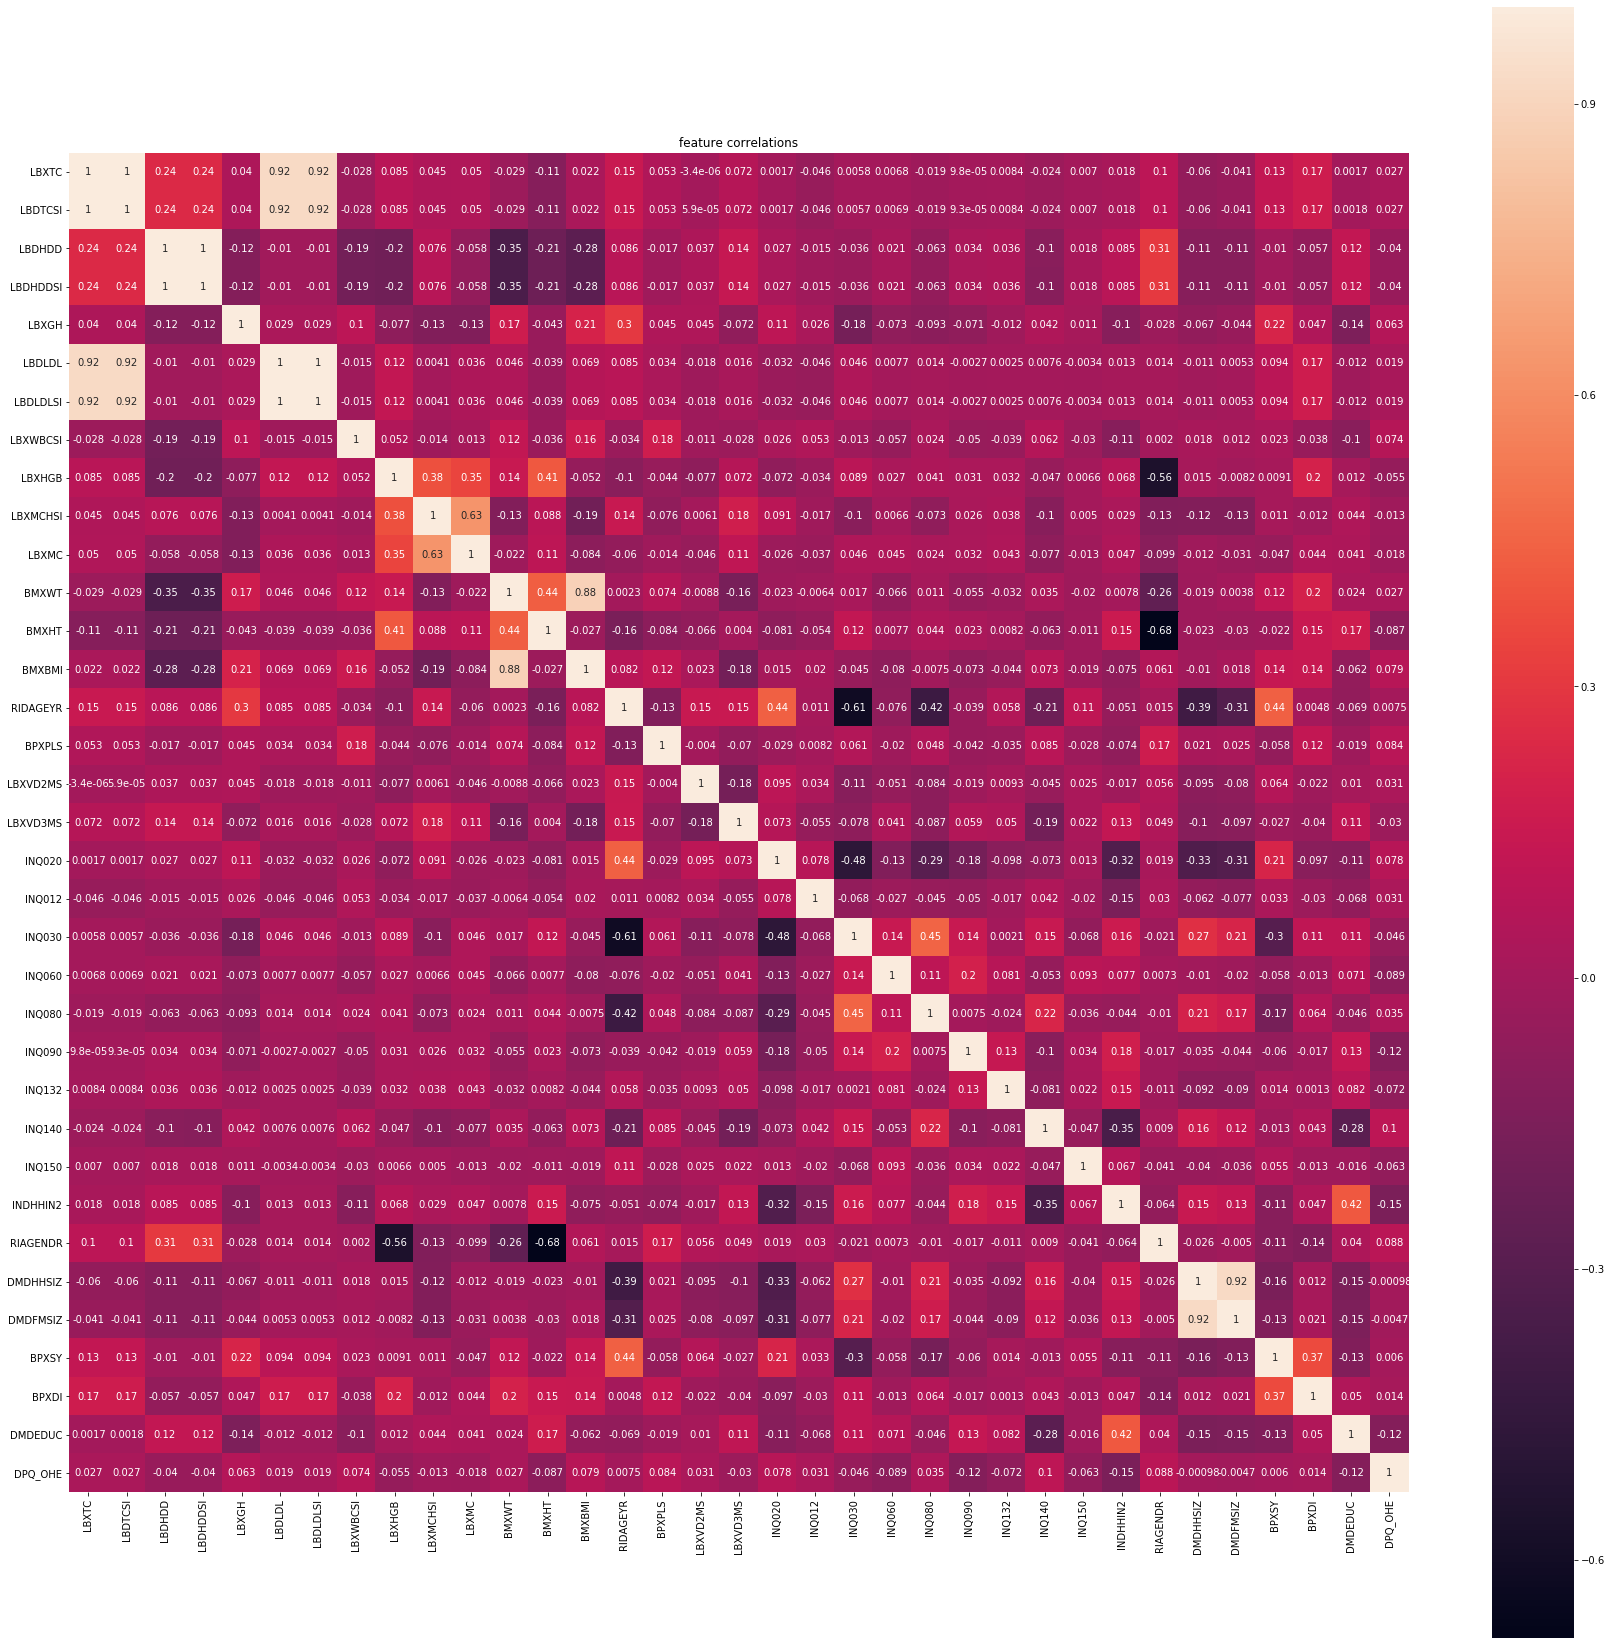
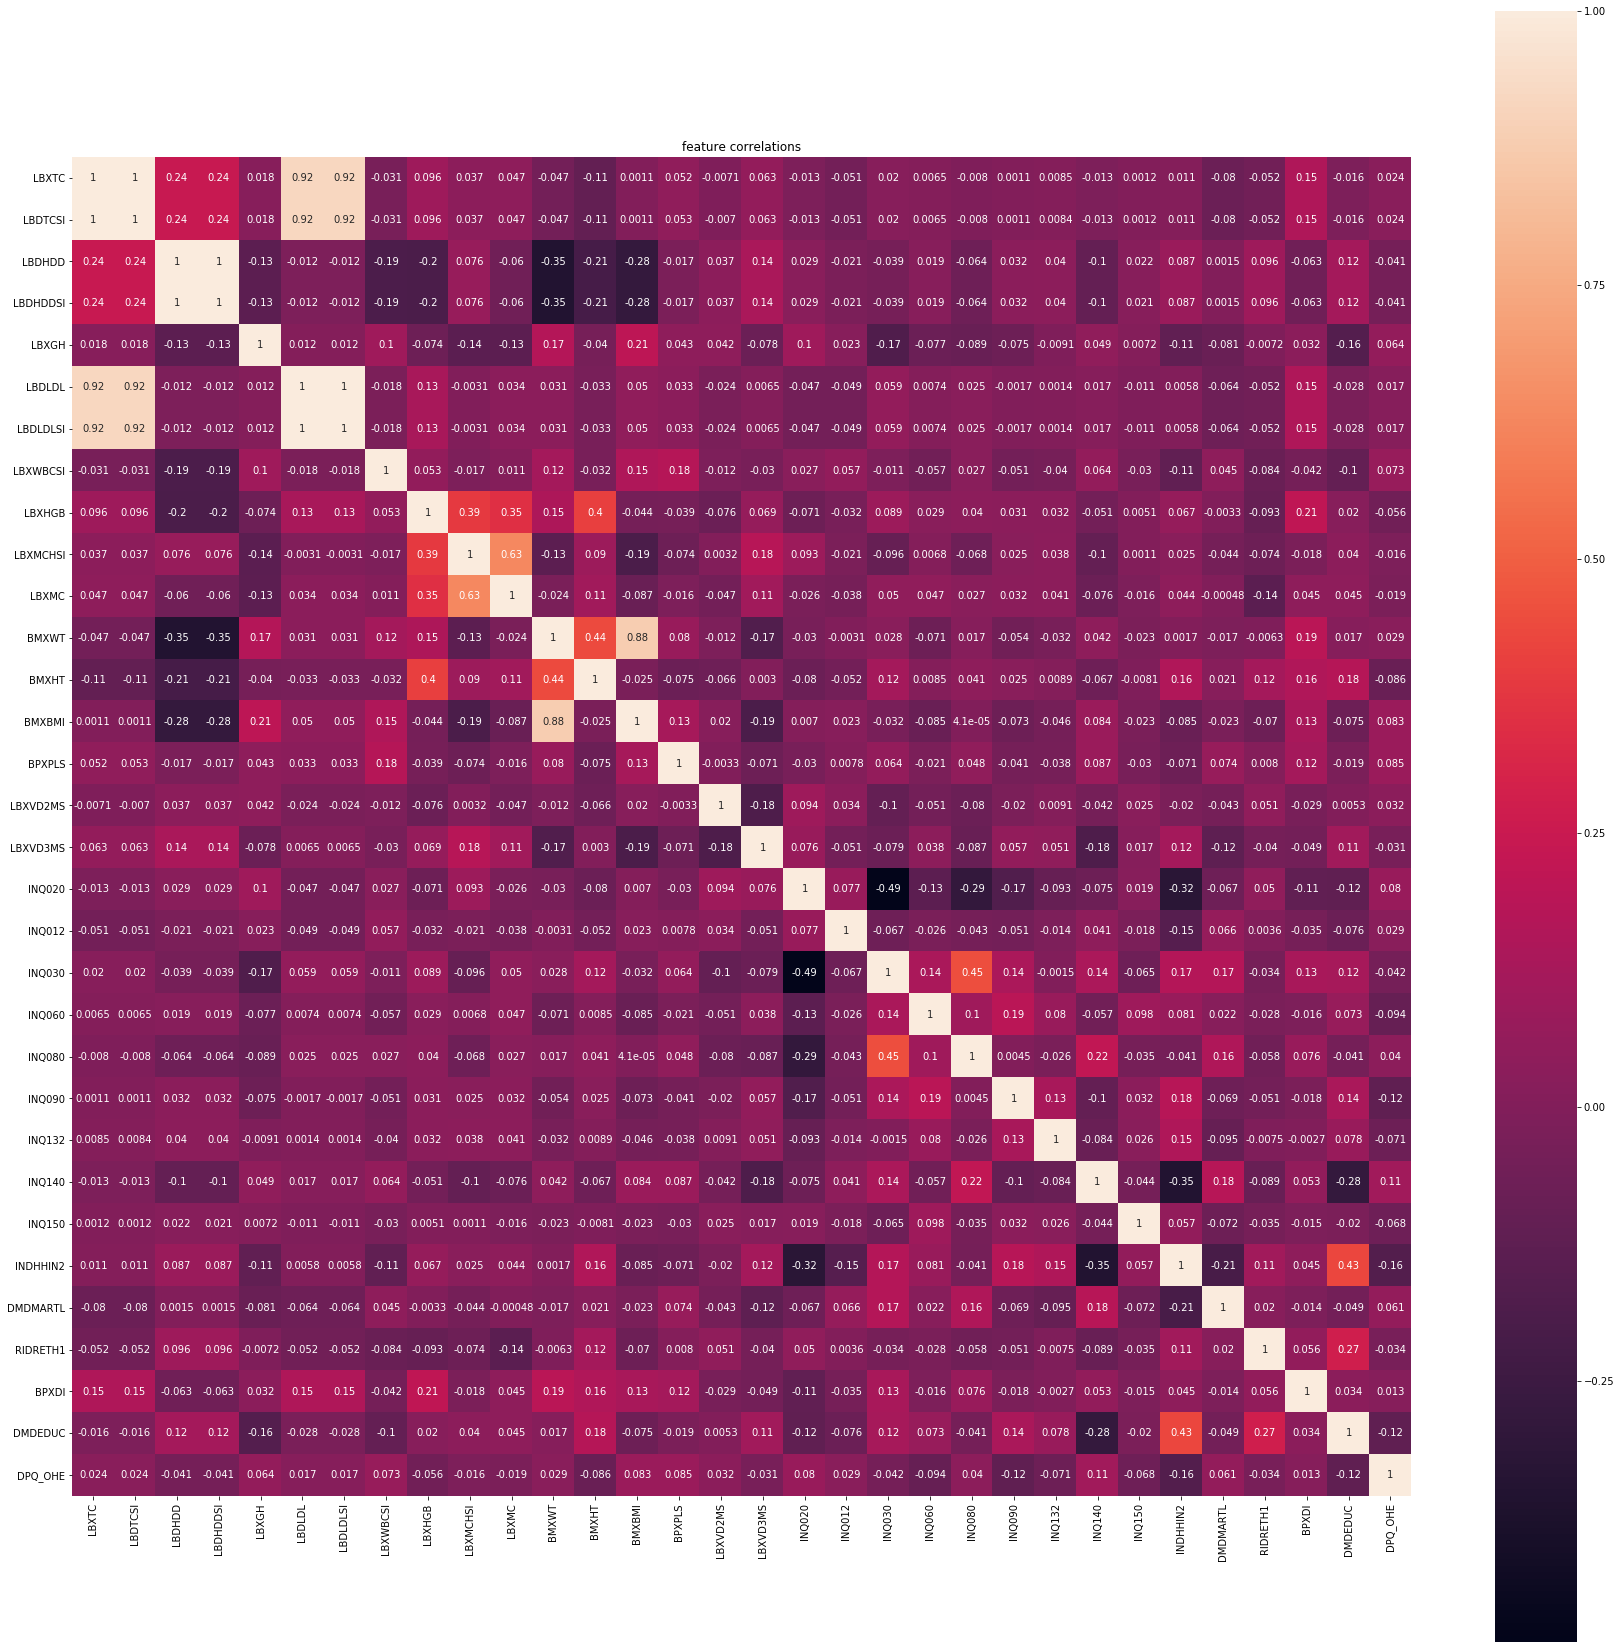
Update Deperession-Classification

diff --git a/Depression-Classification/data_prep.py b/Depression-Classification/data_prep.py
@@ -37,6 +37,7 @@ from sklearn.ensemble import VotingClassifier
 
 import tensorflow as tf
 from xgboost import XGBClassifier
+import lightgbm as lgb
 
 scaler = MinMaxScaler()
 
@@ -46,14 +47,14 @@ INQ = ['INQ020', 'INQ012', 'INQ030', 'INQ060', 'INQ080', 'INQ090', 'INQ132',
 DPQ = ['DPQ010', 'DPQ020', 'DPQ030', 'DPQ040', 'DPQ050', 'DPQ060', 'DPQ070',
        'DPQ080', 'DPQ090']
 DPQ_RA = ['DPQ_range']
-DEMO = ['DMDEDUC', 'DMDMARTL', 'RIDRETH1']
+DEMO = ['DMDEDUC', 'RIAGENDR', 'DMDMARTL', 'RIDRETH1']
 target = ['DPQ_OHE']
 column_list = DEMO+INQ
 
 
 NUMERIC = ['LBXTC', 'LBDTCSI', 'LBDHDD', 'LBDHDDSI', 'LBXGH', 'LBDLDL', 'LBDLDLSI',
            'LBXWBCSI', 'LBXHGB', 'LBXMCHSI', 'LBXMC', 'BMXWT', 'BMXHT', 'BMXBMI',
-           'BPXPLS', 'BPXDI', 'LBXVD2MS', 'LBXVD3MS']
+           'BPXPLS', 'BPXDI', 'LBXVD2MS', 'LBXVD3MS', 'BPXSY', 'RIDAGEYR']
 
 REMOVED = ['BPXSY', 'RIDAGEYR']
 
@@ -92,7 +93,7 @@ def resampling(df_data, ratio):
     return pd.DataFrame(df_sampling_train)
     '''
 
-def DNN(df_data):    
+def CNN(df_data):    
     Y = df_data['DPQ_OHE']
     X = df_data.drop(['DPQ_OHE'], axis=1)
     
@@ -130,8 +131,8 @@ def DNN(df_data):
     print(Y_train.value_counts())
     print(Y_test.value_counts())
     
-    Y_train = to_categorical(Y_train)
-    Y_test = to_categorical(Y_test)  
+    #Y_train = to_categorical(Y_train)
+    #Y_test = to_categorical(Y_test)  
     
     adam=optimizers.Adam(lr=0.001, decay=0.000001)
     kernel_size=5
@@ -139,11 +140,13 @@ def DNN(df_data):
     model = Sequential()
     model.add(Conv1D(64, input_shape=X_train.shape[1:3], kernel_size=kernel_size,
                      activation='relu', kernel_initializer='he_uniform' ,name='Conv1'))
+    model.add(Conv1D(32, kernel_size=kernel_size,
+                     activation='relu', kernel_initializer='he_uniform', name='Conv2'))
     model.add(BatchNormalization())
     model.add(Flatten(name='Flatten'))
     model.add(Dropout(0.8))
     model.add(Dense(128, activation='relu', kernel_initializer='he_uniform', name='FCN1'))
-    model.add(Dense(Y_train.shape[1], activation='softmax'))
+    model.add(Dense(1, activation='sigmoid'))
     model.compile(optimizer=adam, loss='binary_crossentropy', metrics=['accuracy', tf.keras.metrics.AUC()])
     model.summary()
 
@@ -170,8 +173,13 @@ def DNN(df_data):
     plt.show()
     
     Y_pred = model.predict(X_test)
-    Y_pred = np.argmax(Y_pred, axis=1)
-    Y_test = np.argmax(Y_test, axis=1)
+    
+    #print(tf.keras.metrics.AUC(Y_test, Y_pred))
+    print(roc_auc_score(Y_test, Y_pred))
+    
+    #Y_pred = np.argmax(Y_pred, axis=1)
+    #Y_test = np.argmax(Y_test, axis=1)
+    Y_pred = np.where(Y_pred>=0.5, 1, 0)
     
     print(confusion_matrix(Y_test, Y_pred))
     print(classification_report(Y_test, Y_pred, labels=[0, 1]))
@@ -209,17 +217,17 @@ def CNN2D(df_data):
     X_train = np.hstack([x_train, x_train_oh])
     X_test = np.hstack([x_test, x_test_oh])
     
-    X_train = X_train.reshape(X_train.shape[0], 5, 13, 1)
-    X_test = X_test.reshape(X_test.shape[0], 5, 13, 1)
+    X_train = X_train.reshape(X_train.shape[0], 23, 3, 1)
+    X_test = X_test.reshape(X_test.shape[0], 23, 3, 1)
     print(X_train.shape)
     
     print(Y_train.value_counts())
     print(Y_test.value_counts())
     
-    Y_train = to_categorical(Y_train)
-    Y_test = to_categorical(Y_test)  
+    #Y_train = to_categorical(Y_train)
+    #Y_test = to_categorical(Y_test)  
     
-    adam=optimizers.Adam(lr=0.001, decay=0.00005)
+    adam=optimizers.Adam(lr=0.001)
     kernel_size = (3, 3)
     strides = (1, 1)
     
@@ -227,18 +235,16 @@ def CNN2D(df_data):
     model.add(Conv2D(32, input_shape=X_train.shape[1:4],
                      kernel_size=kernel_size, strides=strides,
                      activation='relu', kernel_initializer='he_uniform', name='Conv1')) 
-    model.add(Conv2D(16,
-                     kernel_size=kernel_size, strides=strides,
-                     activation='relu', kernel_initializer='he_uniform', name='Conv2')) 
     model.add(Flatten(name='Flatten'))
     model.add(Dropout(0.8))
-    model.add(Dense(Y_train.shape[1], activation='softmax'))
+    model.add(Dense(128, activation='relu', kernel_initializer='he_uniform', name='FCN1'))
+    model.add(Dense(1, activation='sigmoid'))
     model.compile(optimizer=adam, loss='binary_crossentropy', metrics=['accuracy', tf.keras.metrics.AUC()])
     model.summary()
 
     history = model.fit(X_train, Y_train, 
                         validation_data=(X_test, Y_test),
-                        batch_size=100, epochs=25, verbose=1)
+                        batch_size=100, epochs=35, verbose=1)
     loss = history.history['loss']
     val_loss = history.history['val_loss']
     acc = history.history['accuracy']
@@ -258,11 +264,14 @@ def CNN2D(df_data):
     plt.legend()
     plt.show()
 
-    score = model.evaluate(X_test, Y_test, batch_size=1000)
-    
     Y_pred = model.predict(X_test)
-    Y_pred = np.argmax(Y_pred, axis=1)
-    Y_test = np.argmax(Y_test, axis=1)
+    
+    #print(tf.keras.metrics.AUC(Y_test, Y_pred))
+    print(roc_auc_score(Y_test, Y_pred))
+    
+    #Y_pred = np.argmax(Y_pred, axis=1)
+    #Y_test = np.argmax(Y_test, axis=1)
+    Y_pred = np.where(Y_pred>=0.5, 1, 0)
     
     print(confusion_matrix(Y_test, Y_pred))
     print(classification_report(Y_test, Y_pred, labels=[0, 1]))
@@ -380,19 +389,19 @@ def cnn_model3():
     return model
 
 def dnn_model1():    
-    adam=optimizers.Adam(lr=0.01, decay=0.000001)
+    adam=optimizers.Adam(lr=0.001)
     model = Sequential()
     model.add(Dense(128, input_dim=65, activation='relu', kernel_initializer='he_uniform'))
     model.add(Dense(128, activation='relu', kernel_initializer='he_uniform'))
     model.add(Dropout(0.8))
     model.add(Dense(128, activation='relu', kernel_initializer='he_uniform'))
-    model.add(Dense(1, activation='sigmoid'))
+    model.add(Dense(1, activation='softmax'))
     model.compile(optimizer=adam, loss='binary_crossentropy', metrics=['accuracy'])
     
     return model
     
 def dnn_model2():
-    adam=optimizers.Adam(lr=0.01, decay=0.000001)
+    adam=optimizers.Adam(lr=0.001)
     model = Sequential()
     model.add(Dense(128, input_dim=65, activation='relu', kernel_initializer='he_uniform'))
     model.add(Dense(128, activation='relu', kernel_initializer='he_uniform'))
@@ -400,13 +409,13 @@ def dnn_model2():
     model.add(Dense(128, activation='relu', kernel_initializer='he_uniform'))
     model.add(Dropout(0.8))
     model.add(Dense(128, activation='relu', kernel_initializer='he_uniform'))
-    model.add(Dense(1, activation='sigmoid'))
+    model.add(Dense(1, activation='softmax'))
     model.compile(optimizer=adam, loss='binary_crossentropy', metrics=['accuracy'])
     
     return model
     
 def dnn_model3():
-    adam=optimizers.Adam(lr=0.01, decay=0.000001)
+    adam=optimizers.Adam(lr=0.001)
     model = Sequential()
     model.add(Dense(128, input_dim=65, activation='relu', kernel_initializer='he_uniform'))
     model.add(Dense(128, activation='relu', kernel_initializer='he_uniform'))
@@ -416,7 +425,7 @@ def dnn_model3():
     model.add(Dense(128, activation='relu', kernel_initializer='he_uniform'))
     model.add(Dropout(0.8))
     model.add(Dense(128, activation='relu', kernel_initializer='he_uniform'))
-    model.add(Dense(1, activation='sigmoid'))
+    model.add(Dense(1, activation='softmax'))
     model.compile(optimizer=adam, loss='binary_crossentropy', metrics=['accuracy'])
     
     return model
@@ -463,14 +472,106 @@ def Ensemble(df_data):
     #Y_test = to_categorical(Y_test)  
     
     model1 = KerasClassifier(build_fn = cnn_model1, epochs = 50)
-    model2 = KerasClassifier(build_fn = cnn_model2, epochs = 60)
-    model3 = KerasClassifier(build_fn = cnn_model3, epochs = 70)
+    model2 = KerasClassifier(build_fn = cnn_model2, epochs = 50)
+    model3 = KerasClassifier(build_fn = cnn_model3, epochs = 50)
+    model4 = KerasClassifier(build_fn = dnn_model1, epochs = 50)
+    model5 = KerasClassifier(build_fn = dnn_model2, epochs = 50)
     
-    ensemble_clf = VotingClassifier(estimators = [('model1', model1), ('model2', model2), ('model3', model3)], voting = 'soft')
+    ensemble_clf = VotingClassifier(estimators = [('model1', model1), ('model2', model2), ('model3', model3), ('model4', model4), ('model5', model5)], voting = 'soft')
     ensemble_clf.fit(X_train, Y_train)
     
     Y_pred = ensemble_clf.predict(X_test)
     
+    print(confusion_matrix(Y_test, Y_pred))
+    print(classification_report(Y_test, Y_pred, labels=[0, 1]))
+    print(roc_auc_score(Y_test, Y_pred))
+    
+def LGBM(df_data):    
+    Y = df_data['DPQ_OHE']
+    X = df_data.drop(['DPQ_OHE'], axis=1)
+    
+    X_train, X_test, Y_train, Y_test = train_test_split(X,Y,test_size=0.2,
+                                                        random_state = 42,
+                                                        stratify = Y)
+    
+    X_columns = X.columns
+    Y_columns = ['DPQ_OHE']
+    
+    X_train = pd.DataFrame(X_train, columns=X_columns)
+    Y_train = pd.DataFrame(Y_train, columns=Y_columns)
+    print(X_train.describe())
+    X_train = pd.concat([X_train, Y_train], axis=1)
+    print(X_train.shape)
+    
+    X_train = resampling(X_train, 1)
+    print(X_train.shape)
+    Y_train = X_train['DPQ_OHE']
+    X_train = X_train.drop('DPQ_OHE', axis=1)
+    
+    x_train = scaler.fit_transform(X_train[NUMERIC])
+    x_test = scaler.transform(X_test[NUMERIC])
+    
+    x_train_oh = np.array(X_train.drop(NUMERIC, axis=1))
+    x_test_oh = np.array(X_test.drop(NUMERIC, axis=1))  
+    
+    X_train = np.hstack([x_train, x_train_oh])
+    X_test = np.hstack([x_test, x_test_oh])
+    print(X_train.shape)
+    
+    print(Y_train.value_counts())
+    print(Y_test.value_counts())
+    
+    model = lgb.LGBMClassifier(learning_rate=0.001, n_estimators=10000, boosting_type='gbdt',
+                               metric='binary', feature_faction = 1, scale_pos_weight=1)
+    
+    param_grid = {'n_estimators':[100, 150, 200, 250, 300], 'learning_rate':[0.0001, 0.001, 0.01],
+                      'boosting_type':['gbdt', 'dart'], 'objective':['binary'],
+                      'subsample':[0.7, 0.75, 0.8]}
+    
+
+    grid = GridSearchCV(estimator=model,
+                        param_grid=param_grid,
+                        scoring='roc_auc',
+                        n_jobs=1,
+                        cv=5,
+                        refit=True,
+                        return_train_score=True)
+    
+    grid.fit(X_train, Y_train)
+    
+    params = {
+        'application': 'binary', # for binary classification
+    #     'num_class' : 1, # used for multi-classes
+        'boosting': 'gbdt', # traditional gradient boosting decision tree
+        'learning_rate': 0.05,
+        'device': 'cpu', # you can use GPU to achieve faster learning
+        'max_depth': -1, # <0 means no limit
+        'metric' : 'auc',
+        'subsample_for_bin': 200, # number of samples for constructing bins
+        'colsample_bytree': 0.8, # subsample ratio of columns when constructing the tree
+    }
+    
+    params['learning_rate'] = grid.best_params_['learning_rate']
+    params['subsample'] = grid.best_params_['subsample']
+    params['n_estimators'] = grid.best_params_['n_estimators']
+    params['boosting_type'] = grid.best_params_['boosting_type']
+
+    print(grid.best_params_)
+    d_train = lgb.Dataset(X_train, label=Y_train)
+    d_valid = lgb.Dataset(X_test, label=Y_test) 
+
+    watchlist = [d_train, d_valid]
+
+
+    model = lgb.train(params, train_set=d_train,
+                      valid_sets=watchlist, verbose_eval=4)
+    
+    Y_pred = model.predict(X_test)
+    print(Y_pred)
+    print(roc_auc_score(Y_test, Y_pred))
+    
+    Y_pred = np.where(Y_pred>=0.55, 1, 0)
+    print(accuracy_score(Y_test, Y_pred))
     print(confusion_matrix(Y_test, Y_pred))
     print(classification_report(Y_test, Y_pred, labels=[0, 1]))
     print(roc_auc_score(Y_test, Y_pred))
@@ -491,8 +592,9 @@ if __name__ == "__main__":
     print(df_data.shape)
     df_data = df_data.drop(['DPQ_total'], axis=1)
     df_data = df_data.drop(['DPQ_range'], axis=1)
-    df_data = df_data.drop(['RIAGENDR'], axis=1)
-    df_data = df_data.drop(['BPXSY', 'RIDAGEYR'], axis=1)
+    #df_data = df_data.drop(['RIAGENDR'], axis=1)
+    #df_data = df_data.drop(['BPXSY', 'RIDAGEYR'], axis=1)
+    #df_data = df_data.drop(['DMDMARTL', 'RIDRETH1'], axis=1)
     #df_data = df_data.drop(['LBXVD2MS', 'LBXVD3MS'], axis=1)
     df_data = df_data.drop(DPQ, axis=1)
     df_data[column_list] = df_data[column_list].astype(int)
@@ -506,7 +608,8 @@ if __name__ == "__main__":
     #df_data = pd.get_dummies(df_data, columns=column_list)
     #print(df_data.shape)
     
-    #DNN(df_data)
+    #CNN(df_data)
     #XGBBest(df_data)
     #CNN2D(df_data)
-    Ensemble(df_data)
+    #Ensemble(df_data)
+    LGBM(df_data)

diff --git a/Depression-Classification/medical_data.py b/Depression-Classification/medical_data.py
@@ -7,8 +7,8 @@ Created on Tue May 26 10:55:21 2020
 import numpy as np
 import pandas as pd
 
-dir_name = '2009-2010'
-init = 'F'
+dir_name = '2007-2008'
+init = 'E'
 
 df_CBC = pd.read_sas(dir_name+'/CBC_'+init+'.XPT', index='SEQN')
 df_BMX = pd.read_sas(dir_name+'/BMX_'+init+'.XPT', index='SEQN')
@@ -33,7 +33,7 @@ INQ_S = ['INQ020', 'INQ012', 'INQ030', 'INQ060', 'INQ080', 'INQ090', 'INQ132',
        'INQ140', 'INQ150']
 DPQ = ['DPQ010', 'DPQ020', 'DPQ030', 'DPQ040', 'DPQ050', 'DPQ060', 'DPQ070',
        'DPQ080', 'DPQ090']
-DEMO = ['RIAGENDR', 'DMDEDUC2', 'DMDEDUC3', 'DMDMARTL']
+DEMO = ['RIAGENDR', 'DMDEDUC2', 'DMDEDUC3', 'DMDMARTL', 'RIDRETH1']
 
 NUMERIC = ['LBXTC', 'LBDTCSI', 'LBDHDD', 'LBDHDDSI', 'LBXGH', 'LBDLDL', 'LBDLDLSI',
            'LBXWBCSI', 'LBXHGB', 'LBXMCHSI', 'LBXMC', 'BMXWT', 'BMXHT', 'BMXBMI',
